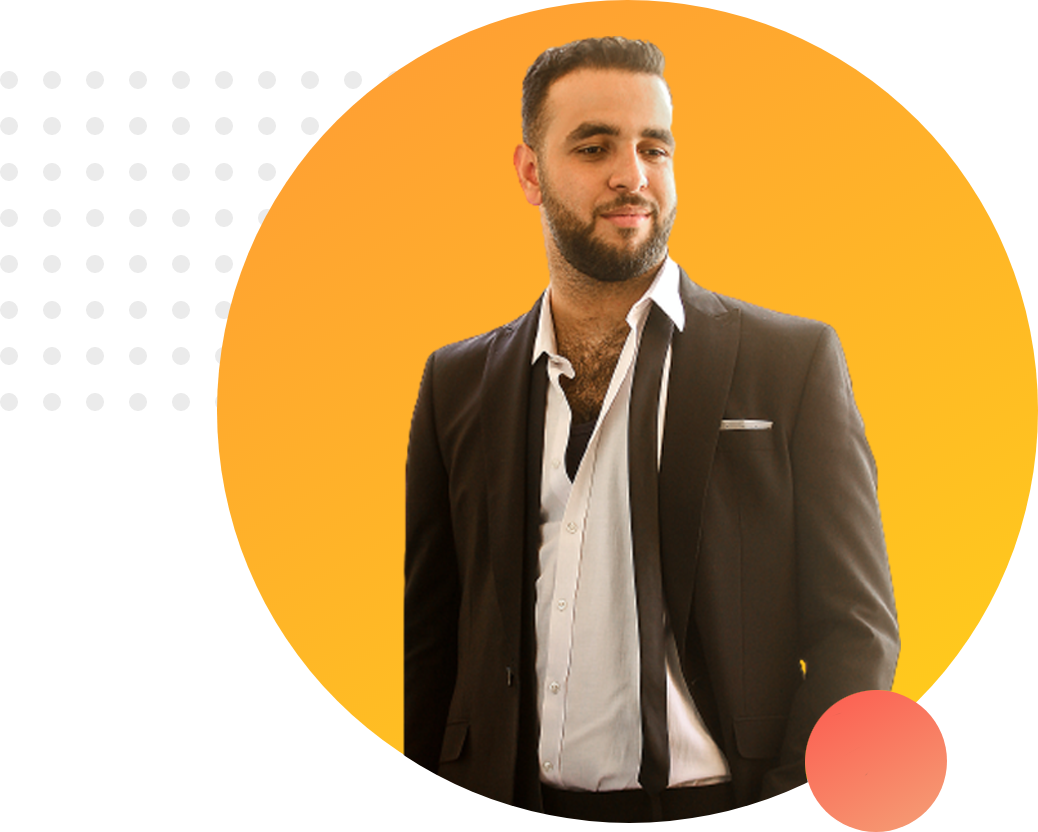
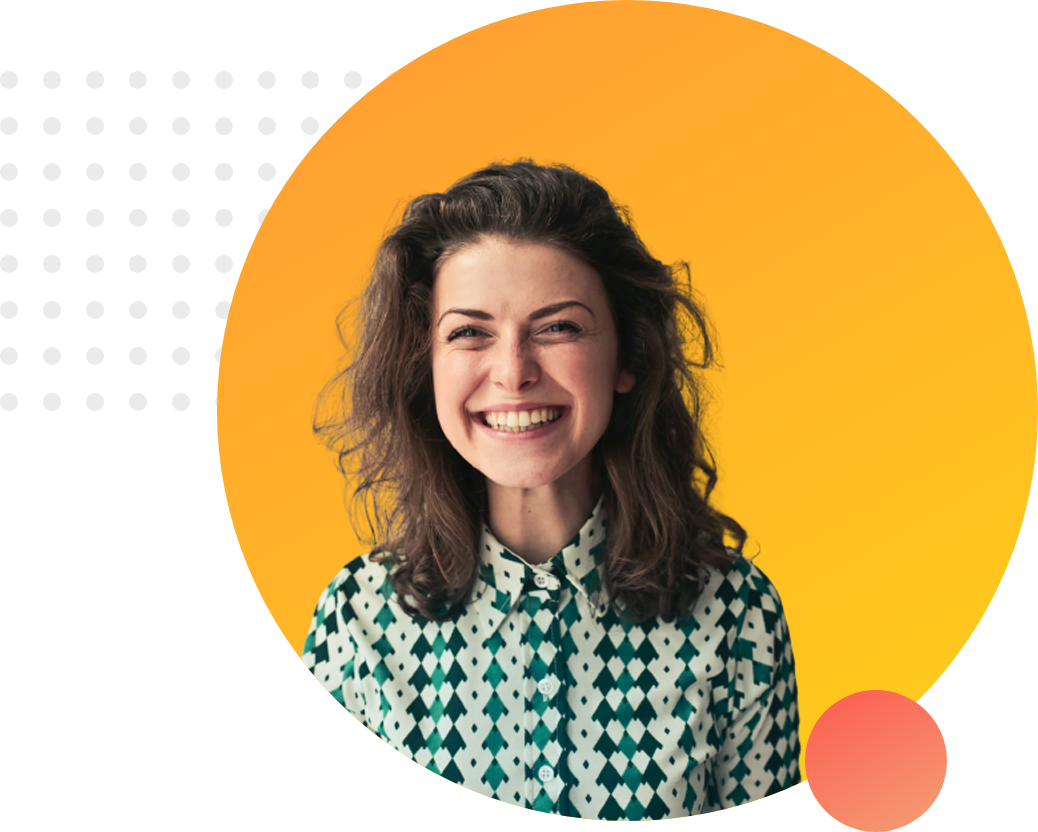
This is my web

diff --git a/index.html b/index.html
@@ -7,20 +7,51 @@
     <link rel="preconnect" href="https://fonts.googleapis.com">
     <link rel="preconnect" href="https://fonts.gstatic.com" crossorigin>
     <link rel="stylesheet" href="style.css">
-    <title>Ak Raj | Home</title>
+    <title>Spider | Home</title>
 </head>
 <body>
+
     <section class="top-banner">
         <div class="half-width">
             <h1>Welcome To</h1>
-            <h1> <span class="name">Ak Raj</span>  World</h1>
-            <h3>World-calss professional web dev</h3>
-            <p>Web dev is a good profession. The most exciting thing is it's the best way to learn to program. In this programming sector, as a person who doesn't know about programming, that person can easily select this sector. If any person is interested in starting a carrier in this sector, it's good enough for the carrier choosing sector. </p>
+            <h1> <span class="orange-name">Spider</span>  World</h1>
+            <h3>Build Climber and Train Stopper</h3>
+            <p>You might saw me jumping, climbing buildings, and stopping trains. But nobody pays me a dime for that work. That's why I am learning and mastering web development. I will not stop until I become the Web Development Hero.</p>
+            <a class="link-button" href="https://www.facebook.com/C01010101/" target="_blank">HIRE ME</a>
         </div>
         <div class="half-width">
-            <img src="images/Profile1.png" alt="">
+            <img src="images/Profile1.png" alt="Profile1">
         </div>
     </section>
+
+    <section class="dream-area">
+        <div class="half-width">
+            <img src="images/Profile2.png" alt="Profile2">
+        </div>
+        <div class="half-width">
+            <h2>Dream Big</h2>
+            <h3>Become a web developer</h3>
+            <p>I already learned the basic HTML and CSS. I can build any simple website. I can even teach my grandma how to make simple website. My goal is to build 3 websites and learn advanced topics.</p>
+            <a class="link-button" href="#">DOWNLOAD RESUME</a>
+        </div>
+    </section>
+
+    <section class="ecperience-area">
+        <h2>Experiences</h2>
+        <div id="full-stack" class="half-width-single-experiences">
+            <h2>Full Stack Web Developer</h2>
+            <h3 class="orange-name">2021-Present | Pro Level Developer</h3>
+            <p>Lorem ipsum, dolor sit amet consectetur adipisicing elit. Esse id reprehenderit facere ipsam optio cumque quae officia explicabo distinctio quasi? Dolorem blanditiis cupiditate iste necessitatibus animi voluptatum praesentium qui! Ducimus!</p>
+        </div>
+        <div id="baby-web" class="half-width-single-experiences">
+            <h2>Baby Web Developer</h2>
+            <h3 class="orange-name">2020-2021 | Learner</h3>
+            <p>They didn't offer me a job. But I made myself as a remove web developer. I made their website and showed it to them. They liked it. And uploaded the content. It was fun working at Programming Hero.</p>
+        </div>
+    </section>
+    <footer>
+        <p>© Ak raj 2022,all rights reserved</p>
+    </footer>
     
 </body>
 </html>

diff --git a/style.css b/style.css
@@ -3,10 +3,16 @@ body {
   margin: 0;
 }
 h1 {
-  font-size: 40px;
+  font-size: 50px;
 }
 
-.name {
+h2 {
+  font-size: 40px;
+}
+p {
+  color: dimgray;
+}
+.orange-name {
   color: orange;
 }
 .half-width {
@@ -24,4 +30,58 @@ h1 {
 }
 section {
   height: 500px;
+  padding-bottom: 150px;
+}
+.link-button {
+  text-decoration: none;
+  background-image: linear-gradient(45deg, lightSalmon, tomato);
+  padding: 10px 20px;
+  border-radius: 5px;
+  color: white;
+  font-weight: 700;
+}
+.half-width2 {
+  width: 40%;
+  margin-left: 5%;
+  padding-left: 2%;
+  float: left;
+}
+.half-width2 img {
+  width: 100%;
+}
+
+.dream-area {
+  background-image: url("images/dream-bg.png");
+  background-repeat: no-repeat;
+  background-position: right;
+}
+
+.half-width-single-experiences {
+  background-color: white;
+  box-shadow: 10px 10px 40px gray;
+  border-radius: 5px;
+  height: 70%;
+  width: 40%;
+  float: left;
+  margin-left: 5%;
+  padding-left: 2%;
+}
+.ecperience-area {
+  background-image: url("images/exp-bg.png");
+  background-repeat: no-repeat;
+  background-position: left;
+}
+#full-stack {
+  border-left: 7px solid;
+  border-image: linear-gradient(lightSalmon, tomato) 45;
+  border-image-slice: 1;
+}
+#baby-web {
+  border-left: 7px solid;
+  border-image: linear-gradient(blue, cyan) 45;
+  border-image-slice: 1;
+}
+
+footer {
+  text-align: center;
 }
